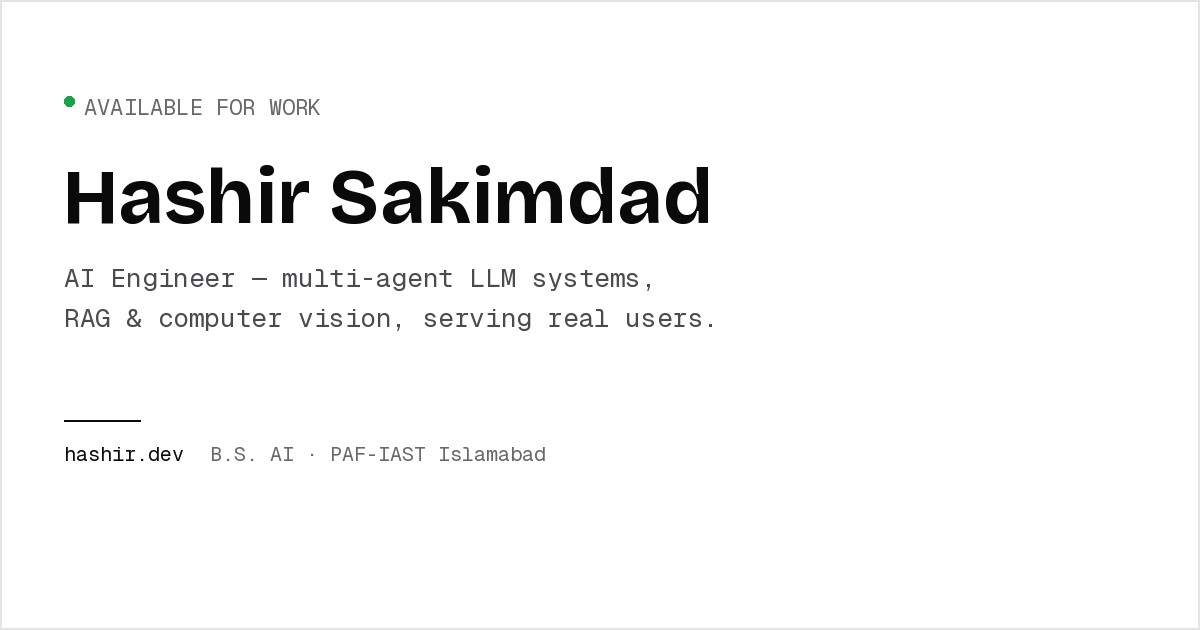
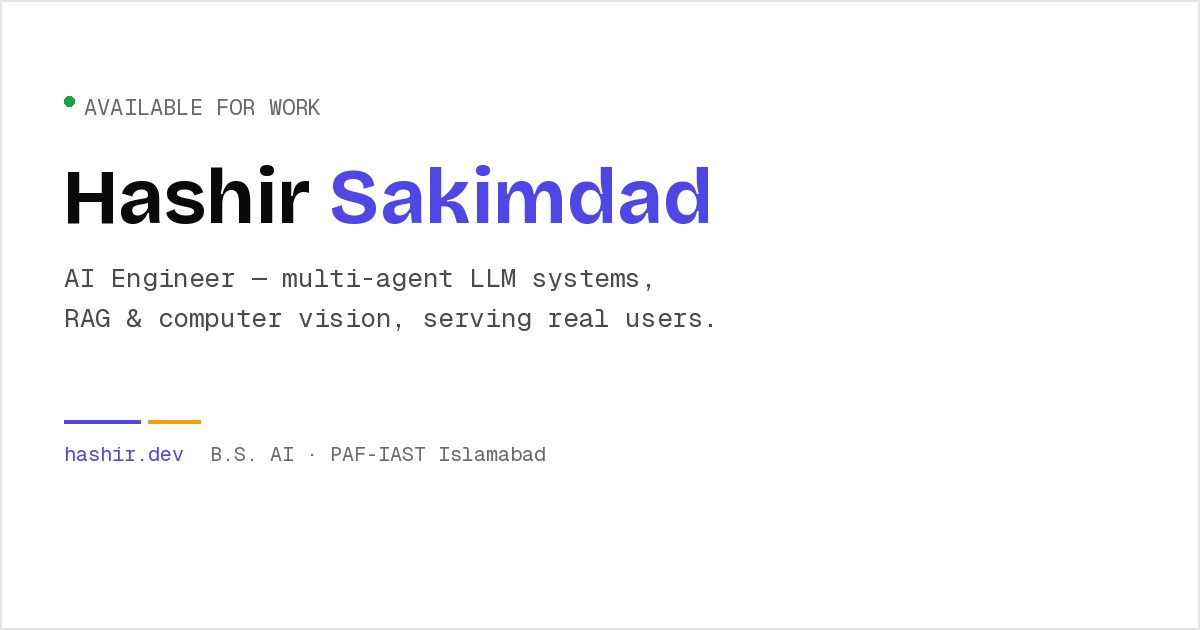
Add indigo + amber accent color system to the minimal layout
Kept the white background and near-black body text exactly as-is;
introduced indigo as the primary accent and amber as a secondary one,
used only where it's functional/decorative UI, not body copy:

- Indigo: primary buttons, link hovers + active nav state, the
  "Sakimdad" name in the hero, section rule/scroll-progress gradient
  start, skill/stack tag chips, experience card accent bar, contact
  email underline, focus ring + text selection.
- Amber: section rule/scroll-progress gradient end, project taglines,
  and now doubles as the semantic "in dev" status dot color for
  ProctorAI (previously plain gray) — a natural pairing since amber
  already reads as "in progress".
- Left the green "live"/"open to work" status dot alone since that's
  a semantic status color, not a brand accent.
- Regenerated the favicon/app-icon and OG image to carry the same
  indigo/amber accents.

Verified locally across every section and on mobile — no console
errors.

Claude-Session: https://claude.ai/code/session_01AYdMeyGB2Bhst6o5Hzn9wJ

Changed region(s): [[0.2775, 0.2714, 0.6167, 0.3619], [0.0617, 0.6635, 0.185, 0.754]]

diff --git a/assets/css/style.css b/assets/css/style.css
@@ -2,7 +2,10 @@
   --bg:#ffffff;--bg2:#fafafa;--bg3:#f4f4f5;
   --border:#e4e4e4;--border2:#d4d4d4;
   --text:#0a0a0a;--muted:#68686e;--dim:#a0a0a6;
-  --live:#16a34a;--wip:#9a9a9a;
+  --live:#16a34a;
+  --indigo:#4f46e5;--indigo-dim:#4338ca;--indigo-tint:#eef1ff;--indigo-border:rgba(79,70,229,.22);
+  --amber:#f59e0b;--amber-dim:#d97706;--amber-tint:#fffbeb;--amber-border:rgba(245,158,11,.28);
+  --wip:var(--amber);
   --mono:'JetBrains Mono',monospace;
   --sans:'Inter',sans-serif;
   --ease-out:cubic-bezier(.22,1,.36,1);
@@ -19,12 +22,12 @@ body.is-loaded{opacity:1;}
 ::-webkit-scrollbar{width:5px;}
 ::-webkit-scrollbar-track{background:var(--bg);}
 ::-webkit-scrollbar-thumb{background:var(--border2);border-radius:3px;}
-::selection{background:var(--text);color:#fff;}
-:focus-visible{outline:2px solid var(--text);outline-offset:3px;border-radius:1px;}
+::selection{background:var(--indigo);color:#fff;}
+:focus-visible{outline:2px solid var(--indigo);outline-offset:3px;border-radius:1px;}
 
 .scroll-progress{
   position:fixed;top:0;left:0;height:2px;width:0%;z-index:210;
-  background:var(--text);transition:width .1s linear;
+  background:linear-gradient(90deg,var(--indigo),var(--amber));transition:width .1s linear;
 }
 
 /* ── NAV ── */
@@ -37,7 +40,7 @@ nav{
 }
 .nav-left{display:flex;align-items:center;gap:.9rem;}
 .nav-logo{font-family:var(--mono);font-size:13px;color:var(--text);letter-spacing:.02em;font-weight:500;}
-.nav-logo .br{color:var(--dim);}
+.nav-logo .br{color:var(--indigo);}
 .nav-status{
   display:flex;align-items:center;gap:.4rem;
   font-family:var(--mono);font-size:10px;color:var(--muted);letter-spacing:.04em;
@@ -46,8 +49,8 @@ nav{
 .nav-status .dot{width:5px;height:5px;border-radius:50%;background:var(--live);}
 .nav-links{display:flex;gap:2rem;}
 .nav-links a{font-family:var(--sans);font-size:13px;color:var(--muted);text-decoration:none;letter-spacing:0;transition:color .2s;position:relative;}
-.nav-links a::after{content:'';position:absolute;left:0;bottom:-4px;width:0;height:1px;background:var(--text);transition:width .25s var(--ease-out);}
-.nav-links a:hover{color:var(--text);}
+.nav-links a::after{content:'';position:absolute;left:0;bottom:-4px;width:0;height:1px;background:var(--indigo);transition:width .25s var(--ease-out);}
+.nav-links a:hover{color:var(--indigo);}
 .nav-links a:hover::after{width:100%;}
 
 /* ── SCROLL REVEALS ── */
@@ -79,7 +82,7 @@ nav{
 }
 .dot-pulse{width:6px;height:6px;border-radius:50%;background:var(--live);}
 h1{font-family:var(--sans);font-size:clamp(2.6rem,5vw,4.2rem);font-weight:700;line-height:1.06;color:var(--text);margin-bottom:.5rem;letter-spacing:-.02em;}
-h1 .accent{color:var(--text);}
+h1 .accent{color:var(--indigo);}
 .hero-role{font-family:var(--mono);color:var(--muted);font-weight:400;font-size:.95rem;letter-spacing:.02em;margin-bottom:1.6rem;}
 .hero-desc{font-size:16px;color:#4a4a4f;max-width:520px;line-height:1.75;margin:0 0 2.2rem;}
 
@@ -92,23 +95,23 @@ h1 .accent{color:var(--text);}
 .hero-btns{display:flex;gap:.9rem;flex-wrap:wrap;}
 .btn-fill{
   font-family:var(--sans);font-size:14px;font-weight:600;letter-spacing:0;
-  padding:13px 26px;background:var(--text);color:#fff;
-  border:1px solid var(--text);cursor:pointer;text-decoration:none;border-radius:6px;
+  padding:13px 26px;background:var(--indigo);color:#fff;
+  border:1px solid var(--indigo);cursor:pointer;text-decoration:none;border-radius:6px;
   transition:transform .2s,box-shadow .2s,background .2s;
 }
-.btn-fill:hover{background:#2a2a2e;transform:translateY(-1px);box-shadow:0 8px 20px rgba(0,0,0,.14);}
+.btn-fill:hover{background:var(--indigo-dim);border-color:var(--indigo-dim);transform:translateY(-1px);box-shadow:0 8px 20px rgba(79,70,229,.28);}
 .btn-ghost{
   font-family:var(--sans);font-size:14px;font-weight:600;letter-spacing:0;
   padding:13px 26px;background:transparent;border-radius:6px;
-  color:var(--text);border:1px solid var(--border2);
+  color:var(--indigo);border:1px solid var(--indigo-border);
   cursor:pointer;text-decoration:none;transition:all .2s;
 }
-.btn-ghost:hover{border-color:var(--text);background:var(--bg3);transform:translateY(-1px);}
+.btn-ghost:hover{border-color:var(--indigo);background:var(--indigo-tint);transform:translateY(-1px);}
 
 .hero-right{position:relative;flex-shrink:0;display:flex;align-items:center;justify-content:center;}
 .photo-wrap{
-  width:270px;border-radius:12px;overflow:hidden;border:1px solid var(--border);
-  box-shadow:0 20px 50px rgba(0,0,0,.08);
+  width:270px;border-radius:12px;overflow:hidden;border:1px solid var(--indigo-border);
+  box-shadow:0 20px 50px rgba(79,70,229,.1);
 }
 .photo-wrap img{width:100%;display:block;aspect-ratio:432/386;object-fit:cover;object-position:center top;filter:grayscale(100%) contrast(1.05);}
 
@@ -120,7 +123,7 @@ section{padding:6rem max(2rem,7vw);position:relative;}
 }
 h2{font-size:1.9rem;font-weight:700;color:var(--text);margin-bottom:.5rem;letter-spacing:-.01em;}
 .rule{
-  width:0;height:2px;background:var(--text);
+  width:0;height:3px;background:linear-gradient(90deg,var(--indigo),var(--amber));border-radius:2px;
   margin-bottom:3rem;transition:width .6s var(--ease-out) .1s;
 }
 .reveal.visible .rule{width:44px;}
@@ -134,21 +137,21 @@ h2{font-size:1.9rem;font-weight:700;color:var(--text);margin-bottom:.5rem;letter
 .skill-row .cat{font-family:var(--mono);font-size:10.5px;color:var(--dim);letter-spacing:.08em;text-transform:uppercase;}
 .tags{display:flex;gap:6px;flex-wrap:wrap;}
 .tag{
-  font-size:12px;font-family:var(--sans);padding:5px 12px;background:var(--bg);
-  color:var(--text);border:1px solid var(--border2);border-radius:20px;
-  transition:border-color .2s,background .2s;
+  font-size:12px;font-family:var(--sans);padding:5px 12px;background:var(--indigo-tint);
+  color:var(--indigo-dim);border:1px solid var(--indigo-border);border-radius:20px;
+  transition:border-color .2s,background .2s,transform .2s;
 }
-.tag:hover{border-color:var(--text);background:var(--bg3);}
+.tag:hover{border-color:var(--indigo);background:#e0e4ff;transform:translateY(-1px);}
 
 /* ── EXPERIENCE ── */
 #experience{background:var(--bg);}
 .exp-list{display:flex;flex-direction:column;gap:1.1rem;}
 .exp-card{
   padding:1.5rem 1.7rem;background:var(--bg);
-  border:1px solid var(--border);border-left:3px solid var(--text);border-radius:0 8px 8px 0;
+  border:1px solid var(--border);border-left:3px solid var(--indigo);border-radius:0 8px 8px 0;
   transition:transform .2s,box-shadow .2s;
 }
-.exp-card:hover{transform:translateX(3px);box-shadow:0 10px 28px rgba(0,0,0,.06);}
+.exp-card:hover{transform:translateX(3px);box-shadow:0 10px 28px rgba(79,70,229,.08);}
 .exp-top{display:flex;justify-content:space-between;align-items:flex-start;flex-wrap:wrap;gap:.4rem;margin-bottom:.3rem;}
 .exp-title{font-weight:600;font-size:15.5px;color:var(--text);}
 .exp-date{font-family:var(--mono);font-size:11px;color:var(--dim);}
@@ -198,7 +201,7 @@ h2{font-size:1.9rem;font-weight:700;color:var(--text);margin-bottom:.5rem;letter
 .proj-wip-badge{display:inline-flex;align-items:center;gap:.4rem;font-family:var(--mono);font-size:10.5px;color:var(--muted);letter-spacing:.05em;}
 .proj-wip-badge::before{content:'●';color:var(--wip);}
 .proj-name{font-size:1.45rem;font-weight:700;color:var(--text);}
-.proj-tagline{font-family:var(--mono);font-size:11.5px;color:var(--muted);}
+.proj-tagline{font-family:var(--mono);font-size:11.5px;color:var(--amber-dim);}
 .proj-desc{font-size:14px;color:#4a4a4f;line-height:1.75;}
 .proj-detail-list{list-style:none;display:flex;flex-direction:column;gap:.35rem;margin-top:.25rem;}
 .proj-detail-list li{font-size:13.5px;color:#54545a;padding-left:1rem;position:relative;line-height:1.6;}
@@ -209,7 +212,7 @@ h2{font-size:1.9rem;font-weight:700;color:var(--text);margin-bottom:.5rem;letter
   font-family:var(--sans);font-size:13px;font-weight:500;color:var(--text);text-decoration:none;
   padding:8px 16px;border:1px solid var(--border2);border-radius:6px;transition:all .2s;display:inline-block;
 }
-.proj-links-row a:hover{border-color:var(--text);background:var(--bg3);transform:translateY(-1px);}
+.proj-links-row a:hover{border-color:var(--indigo);color:var(--indigo);background:var(--indigo-tint);transform:translateY(-1px);}
 
 /* ── ACHIEVEMENTS ── */
 #achievements{background:var(--bg);}
@@ -219,10 +222,10 @@ h2{font-size:1.9rem;font-weight:700;color:var(--text);margin-bottom:.5rem;letter
   display:flex;flex-direction:column;gap:.8rem;
   transition:border-color .2s,transform .2s,box-shadow .2s;
 }
-.ach-card:hover{border-color:var(--border2);transform:translateY(-3px);box-shadow:0 14px 34px rgba(0,0,0,.07);}
+.ach-card:hover{border-color:var(--indigo-border);transform:translateY(-3px);box-shadow:0 14px 34px rgba(79,70,229,.08);}
 .ach-icon{
   width:42px;height:42px;display:flex;align-items:center;justify-content:center;
-  font-size:19px;border-radius:50%;border:1px solid var(--border2);
+  font-size:19px;border-radius:50%;border:1px solid var(--indigo-border);background:var(--indigo-tint);
   filter:grayscale(100%);
 }
 .ach-title{font-size:14.5px;font-weight:600;color:var(--text);}
@@ -235,10 +238,10 @@ h2{font-size:1.9rem;font-weight:700;color:var(--text);margin-bottom:.5rem;letter
 .contact-email{
   font-family:var(--sans);font-size:1.4rem;font-weight:700;color:var(--text);
   text-decoration:none;display:inline-block;margin-bottom:2rem;
-  border-bottom:2px solid var(--text);padding-bottom:2px;
-  transition:opacity .2s;
+  border-bottom:2px solid var(--indigo);padding-bottom:2px;
+  transition:color .2s;
 }
-.contact-email:hover{opacity:.65;}
+.contact-email:hover{color:var(--indigo);}
 .contact-grid{display:flex;justify-content:center;gap:.7rem;flex-wrap:wrap;}
 .contact-grid a{
   font-family:var(--sans);font-size:13px;font-weight:500;
@@ -246,7 +249,7 @@ h2{font-size:1.9rem;font-weight:700;color:var(--text);margin-bottom:.5rem;letter
   padding:9px 18px;border:1px solid var(--border2);border-radius:6px;
   transition:all .2s;display:inline-block;
 }
-.contact-grid a:hover{border-color:var(--text);background:var(--bg3);transform:translateY(-1px);}
+.contact-grid a:hover{border-color:var(--indigo);color:var(--indigo);background:var(--indigo-tint);transform:translateY(-1px);}
 
 footer{
   text-align:center;padding:1.6rem;

diff --git a/assets/js/main.js b/assets/js/main.js
@@ -58,7 +58,7 @@
         if (window.scrollY >= section.offsetTop - 130) current = section.id;
       });
       navLinks.forEach((link) => {
-        link.style.color = link.getAttribute('href') === `#${current}` ? 'var(--text)' : '';
+        link.style.color = link.getAttribute('href') === `#${current}` ? 'var(--indigo)' : '';
       });
 
       if (progressBar) {
